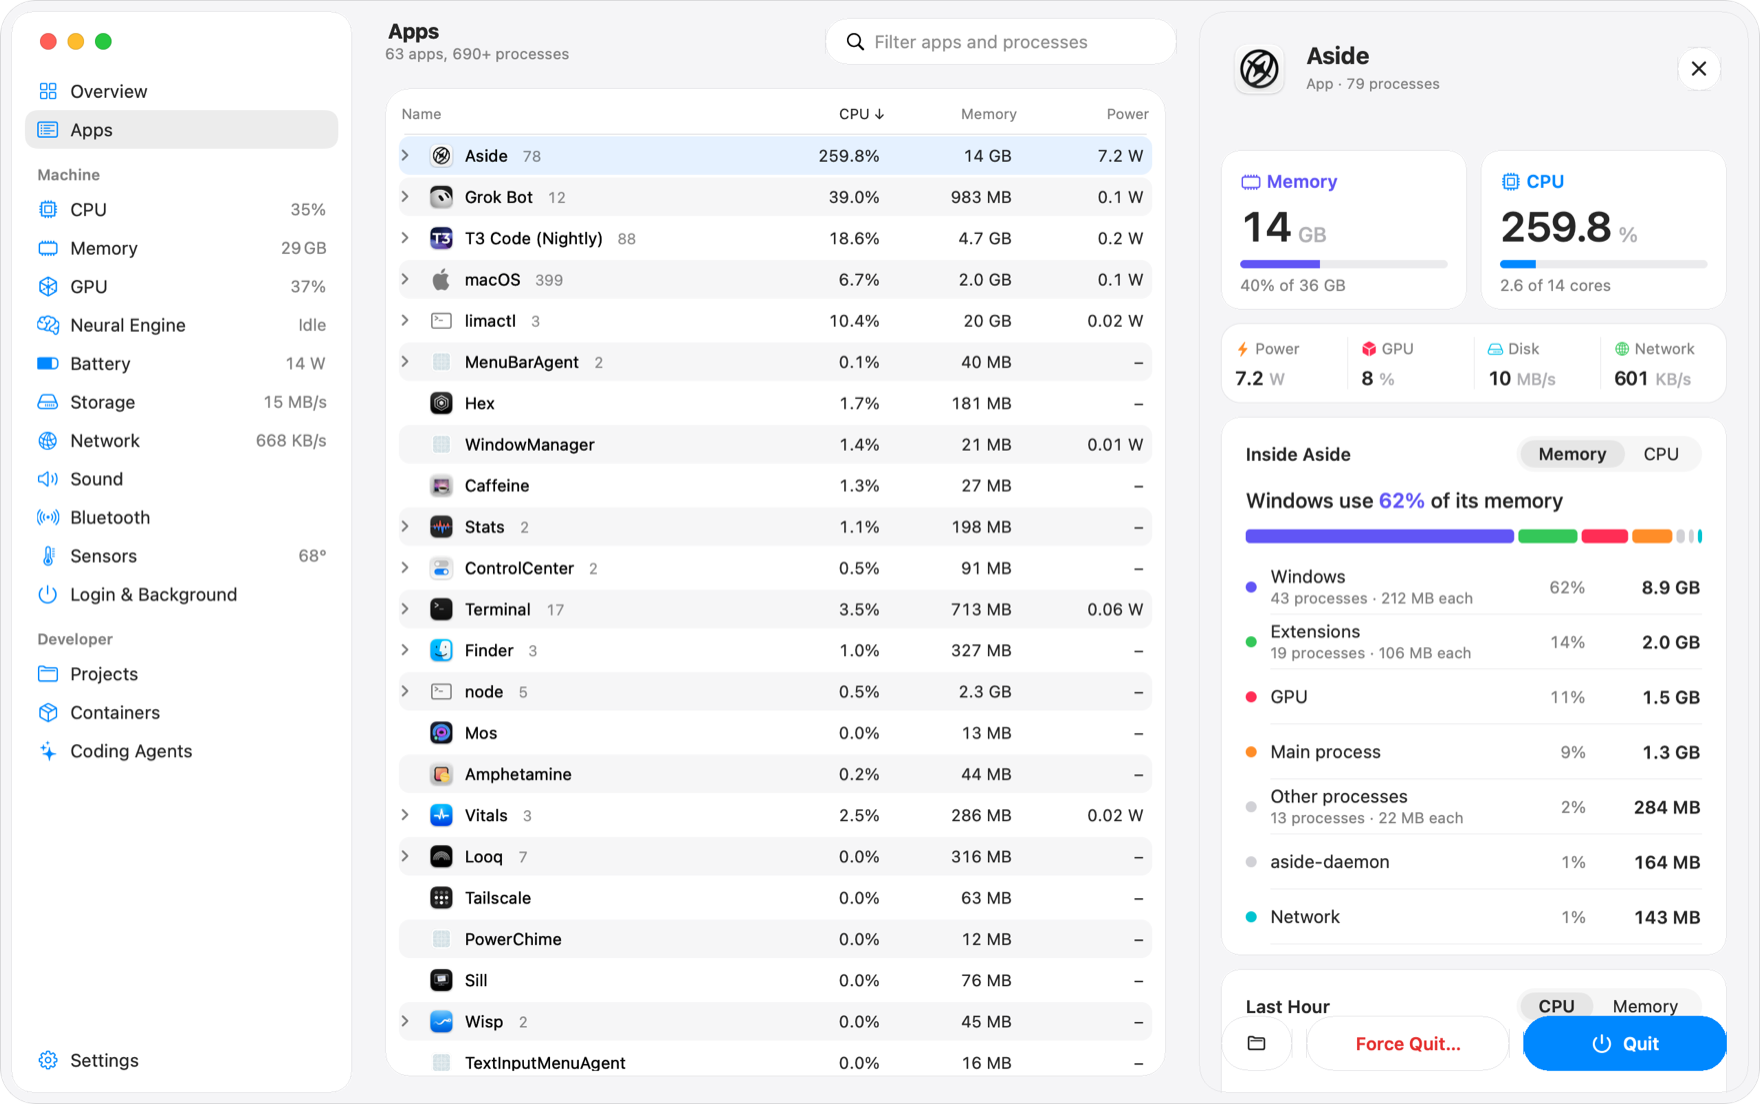
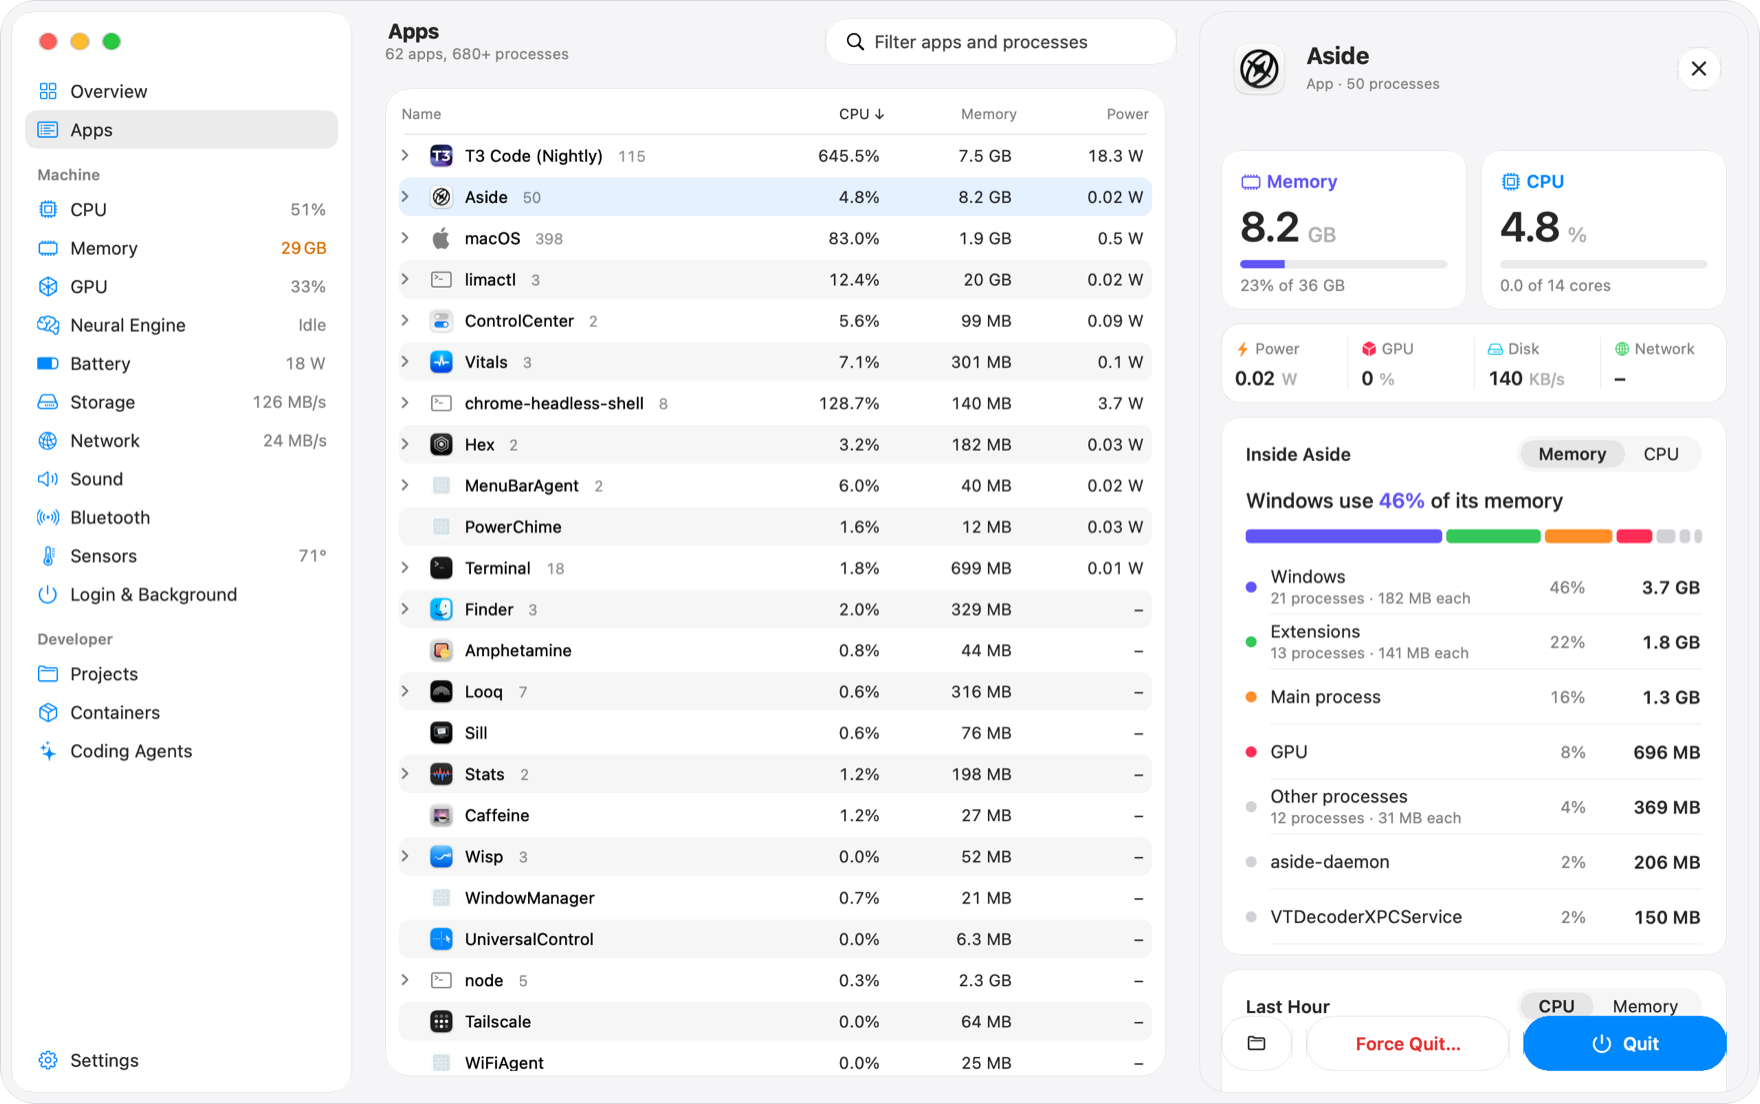
README: screenshots from the macOS 27 SDK build

diff --git a/README.md b/README.md
@@ -15,7 +15,7 @@ brew install --cask current/tap/wisp
 
 <picture>
   <source media="(prefers-color-scheme: dark)" srcset="docs/images/overview-dark.png">
-  <img src="docs/images/overview-light.png" alt="The Overview page with Why Is It Slow? open. It says limactl is holding 20 GB and macOS has compressed 13 GB to make room, and that 15 dev servers are using 4.6 GB together. Below are the CPU, memory and GPU cards.">
+  <img src="docs/images/overview-light.png" alt="The Overview page with Why Is It Slow? open. It says limactl is holding 20 GB and macOS has compressed 12 GB to make room, and that 15 dev servers are using 4.7 GB together. Below are the CPU, memory and GPU cards.">
 </picture>
 
 ## Why is my Mac slow?
@@ -36,7 +36,7 @@ containers, and its last hour.
 
 <picture>
   <source media="(prefers-color-scheme: dark)" srcset="docs/images/apps-dark.png">
-  <img src="docs/images/apps-light.png" alt="The Apps page with the drawer open for the Aside browser: 14 GB of memory, 259.8% CPU, and windows using 62% of its memory across 43 processes.">
+  <img src="docs/images/apps-light.png" alt="The Apps page with the drawer open for the Aside browser: 50 processes using 8.2 GB of memory and 4.8% CPU, split into windows, extensions, GPU and helpers.">
 </picture>
 
 ## Storage
@@ -48,7 +48,7 @@ after a confirmation. Wisp does not delete files itself.
 
 <picture>
   <source media="(prefers-color-scheme: dark)" srcset="docs/images/storage-dark.png">
-  <img src="docs/images/storage-light.png" alt="The Storage page: 172 GB free of 995 GB, and the Developer list with Colima at 76 GB, Rust target folders at 50 GB and node_modules in 101 projects at 30 GB.">
+  <img src="docs/images/storage-light.png" alt="The Storage page: 164 GB free of 995 GB, and the Developer list with Colima at 76 GB and Rust target folders in 6 projects at 50 GB.">
 </picture>
 
 ## Other pages
